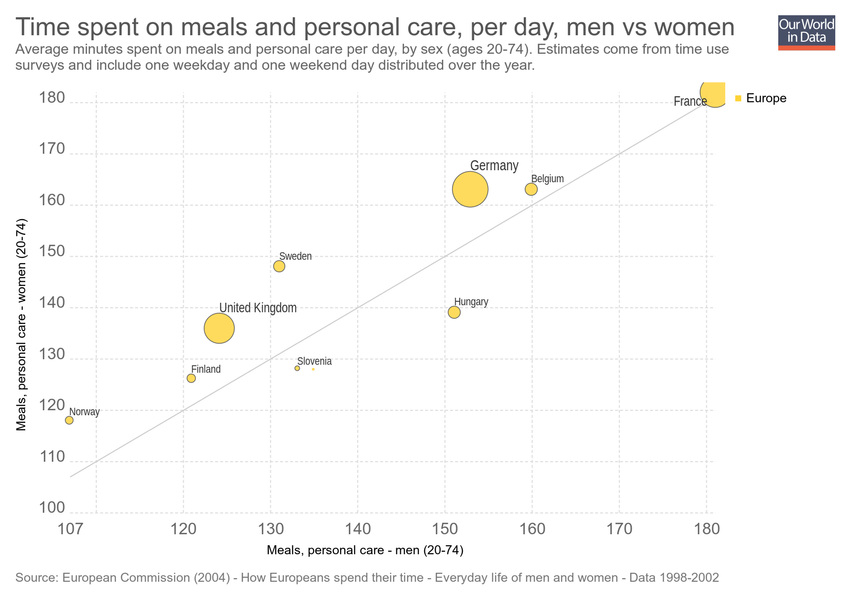
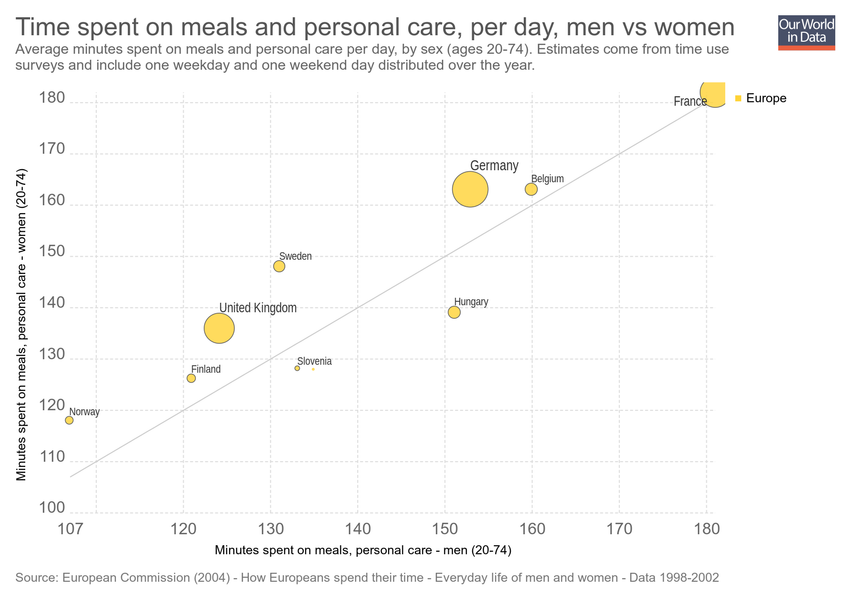
Updating chart time-spent-on-meals-and-personal-care-per-day-men-vs-women

Changed region(s): [[0.0, 0.27, 0.0306, 0.81], [0.2447, 0.9, 0.6118, 0.93]]

diff --git a/grapher/time-spent-on-meals-and-personal-care-per-day-men-vs-women.html b/grapher/time-spent-on-meals-and-personal-care-per-day-men-vs-women.html
@@ -1,4 +1,4 @@
-<!doctype html><html><head><meta name="viewport" content="width=device-width, initial-scale=1" /><title>Time spent on meals and personal care, per day, men vs women - Our World in Data</title><meta name="description" content="Average minutes spent on meals and personal care per day, by sex (ages 20-74). Estimates come from time use surveys and include one weekday and one weekend day distributed over the year." /><link rel="canonical" href="https://ourworldindata.org/grapher/time-spent-on-meals-and-personal-care-per-day-men-vs-women" /><meta property="fb:app_id" content="1149943818390250" /><meta property="og:url" content="https://ourworldindata.org/grapher/time-spent-on-meals-and-personal-care-per-day-men-vs-women" /><meta property="og:title" content="Time spent on meals and personal care, per day, men vs women" /><meta property="og:description" content="Average minutes spent on meals and personal care per day, by sex (ages 20-74). Estimates come from time use surveys and include one weekday and one weekend day distributed over the year." /><meta property="og:image" content="https://ourworldindata.org/grapher/exports/time-spent-on-meals-and-personal-care-per-day-men-vs-women.png?v=2" /><meta property="og:image:width" content="850" /><meta property="og:image:height" content="600" /><meta property="og:site_name" content="Our World in Data" /><meta name="twitter:card" content="summary_large_image" /><meta name="twitter:site" content="@OurWorldInData" /><meta name="twitter:creator" content="@OurWorldInData" /><meta name="twitter:title" content="Time spent on meals and personal care, per day, men vs women" /><meta name="twitter:description" content="Average minutes spent on meals and personal care per day, by sex (ages 20-74). Estimates come from time use surveys and include one weekday and one weekend day distributed over the year." /><meta name="twitter:image" content="https://ourworldindata.org/grapher/exports/time-spent-on-meals-and-personal-care-per-day-men-vs-women.png?v=2" /><style>
+<!doctype html><html><head><meta name="viewport" content="width=device-width, initial-scale=1" /><title>Time spent on meals and personal care, per day, men vs women - Our World in Data</title><meta name="description" content="Average minutes spent on meals and personal care per day, by sex (ages 20-74). Estimates come from time use surveys and include one weekday and one weekend day distributed over the year." /><link rel="canonical" href="https://ourworldindata.org/grapher/time-spent-on-meals-and-personal-care-per-day-men-vs-women" /><meta property="fb:app_id" content="1149943818390250" /><meta property="og:url" content="https://ourworldindata.org/grapher/time-spent-on-meals-and-personal-care-per-day-men-vs-women" /><meta property="og:title" content="Time spent on meals and personal care, per day, men vs women" /><meta property="og:description" content="Average minutes spent on meals and personal care per day, by sex (ages 20-74). Estimates come from time use surveys and include one weekday and one weekend day distributed over the year." /><meta property="og:image" content="https://ourworldindata.org/grapher/exports/time-spent-on-meals-and-personal-care-per-day-men-vs-women.png?v=3" /><meta property="og:image:width" content="850" /><meta property="og:image:height" content="600" /><meta property="og:site_name" content="Our World in Data" /><meta name="twitter:card" content="summary_large_image" /><meta name="twitter:site" content="@OurWorldInData" /><meta name="twitter:creator" content="@OurWorldInData" /><meta name="twitter:title" content="Time spent on meals and personal care, per day, men vs women" /><meta name="twitter:description" content="Average minutes spent on meals and personal care per day, by sex (ages 20-74). Estimates come from time use surveys and include one weekday and one weekend day distributed over the year." /><meta name="twitter:image" content="https://ourworldindata.org/grapher/exports/time-spent-on-meals-and-personal-care-per-day-men-vs-women.png?v=3" /><style>
         html, body {
             height: 100%;
             margin: 0;
@@ -20,8 +20,8 @@
         }
     </style><noscript><style>
                     figure { display: none !important; }
-                </style></noscript><link rel="stylesheet" href="https://ourworldindata.org/grapher/assets/commons.bundle.b9f051796dbbbb7e5139.css" /><link rel="preload" href="/grapher/data/variables/97591+97597+72+123.json?v=2" as="fetch" crossorigin /></head><body class="singleChart"><figure data-grapher-src="/grapher/time-spent-on-meals-and-personal-care-per-day-men-vs-women"></figure><noscript id="fallback"><img src="/grapher/exports/time-spent-on-meals-and-personal-care-per-day-men-vs-women.svg" /><p>Interactive visualization requires JavaScript</p></noscript><script src="https://cdn.polyfill.io/v2/polyfill.min.js?features=es6,fetch"></script><script src="https://ourworldindata.org/grapher/assets/commons.bundle.b9f051796dbbbb7e5139.js"></script><script src="https://ourworldindata.org/grapher/assets/charts.bundle.b9f051796dbbbb7e5139.js"></script><script>
-        var jsonConfig = {"id":2970,"map":{"projection":"World","colorSchemeLabels":[],"colorSchemeValues":[],"customNumericColors":[],"customCategoryColors":{},"customCategoryLabels":{},"customHiddenCategories":{}},"tab":"chart","slug":"time-spent-on-meals-and-personal-care-per-day-men-vs-women","type":"ScatterPlot","title":"Time spent on meals and personal care, per day, men vs women","xAxis":{"scaleType":"linear"},"yAxis":{"min":100,"scaleType":"linear"},"version":2,"subtitle":"Average minutes spent on meals and personal care per day, by sex (ages 20-74). Estimates come from time use surveys and include one weekday and one weekend day distributed over the year.","hasMapTab":false,"stackMode":"absolute","dimensions":[{"display":{"name":"Meals, personal care - women (20-74)"},"property":"y","variableId":97591},{"display":{"name":"Meals, personal care - men (20-74)"},"property":"x","variableId":97597},{"display":{},"property":"size","variableId":72},{"display":{},"property":"color","variableId":123}],"hasChartTab":true,"isPublished":true,"selectedData":[],"addCountryMode":"add-country","comparisonLine":{},"hideTitleAnnotation":true};
+                </style></noscript><link rel="stylesheet" href="https://ourworldindata.org/grapher/assets/commons.bundle.b9f051796dbbbb7e5139.css" /><link rel="preload" href="/grapher/data/variables/97591+97597+72+123.json?v=3" as="fetch" crossorigin /></head><body class="singleChart"><figure data-grapher-src="/grapher/time-spent-on-meals-and-personal-care-per-day-men-vs-women"></figure><noscript id="fallback"><img src="/grapher/exports/time-spent-on-meals-and-personal-care-per-day-men-vs-women.svg" /><p>Interactive visualization requires JavaScript</p></noscript><script src="https://cdn.polyfill.io/v2/polyfill.min.js?features=es6,fetch"></script><script src="https://ourworldindata.org/grapher/assets/commons.bundle.b9f051796dbbbb7e5139.js"></script><script src="https://ourworldindata.org/grapher/assets/charts.bundle.b9f051796dbbbb7e5139.js"></script><script>
+        var jsonConfig = {"id":2970,"map":{"projection":"World","colorSchemeLabels":[],"colorSchemeValues":[],"customNumericColors":[],"customCategoryColors":{},"customCategoryLabels":{},"customHiddenCategories":{}},"tab":"chart","slug":"time-spent-on-meals-and-personal-care-per-day-men-vs-women","type":"ScatterPlot","title":"Time spent on meals and personal care, per day, men vs women","xAxis":{"scaleType":"linear"},"yAxis":{"min":100,"scaleType":"linear"},"version":3,"subtitle":"Average minutes spent on meals and personal care per day, by sex (ages 20-74). Estimates come from time use surveys and include one weekday and one weekend day distributed over the year.","hasMapTab":false,"stackMode":"absolute","dimensions":[{"display":{"name":"Minutes spent on meals, personal care - women (20-74)"},"property":"y","variableId":97591},{"display":{"name":"Minutes spent on meals, personal care  - men (20-74)"},"property":"x","variableId":97597},{"display":{},"property":"size","variableId":72},{"display":{},"property":"color","variableId":123}],"hasChartTab":true,"isPublished":true,"selectedData":[],"addCountryMode":"add-country","comparisonLine":{},"hideTitleAnnotation":true};
         var figure = document.getElementsByTagName("figure")[0];
         try {
             window.App = {};
